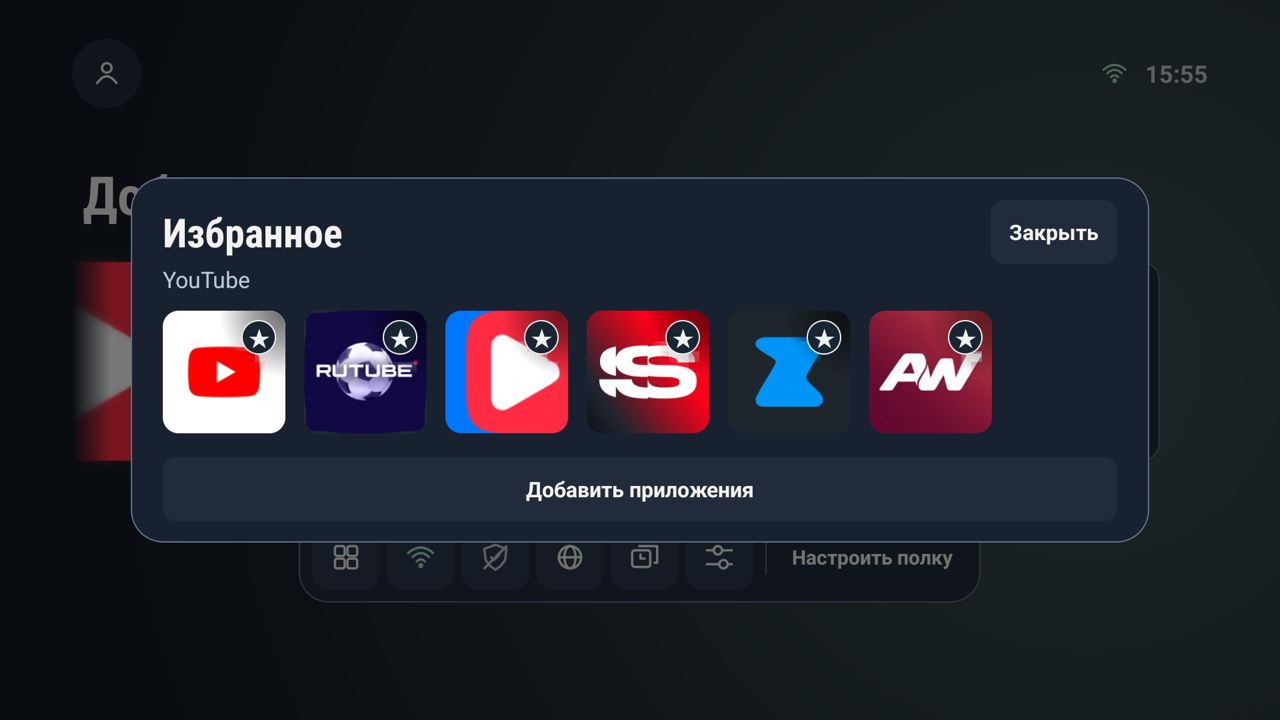
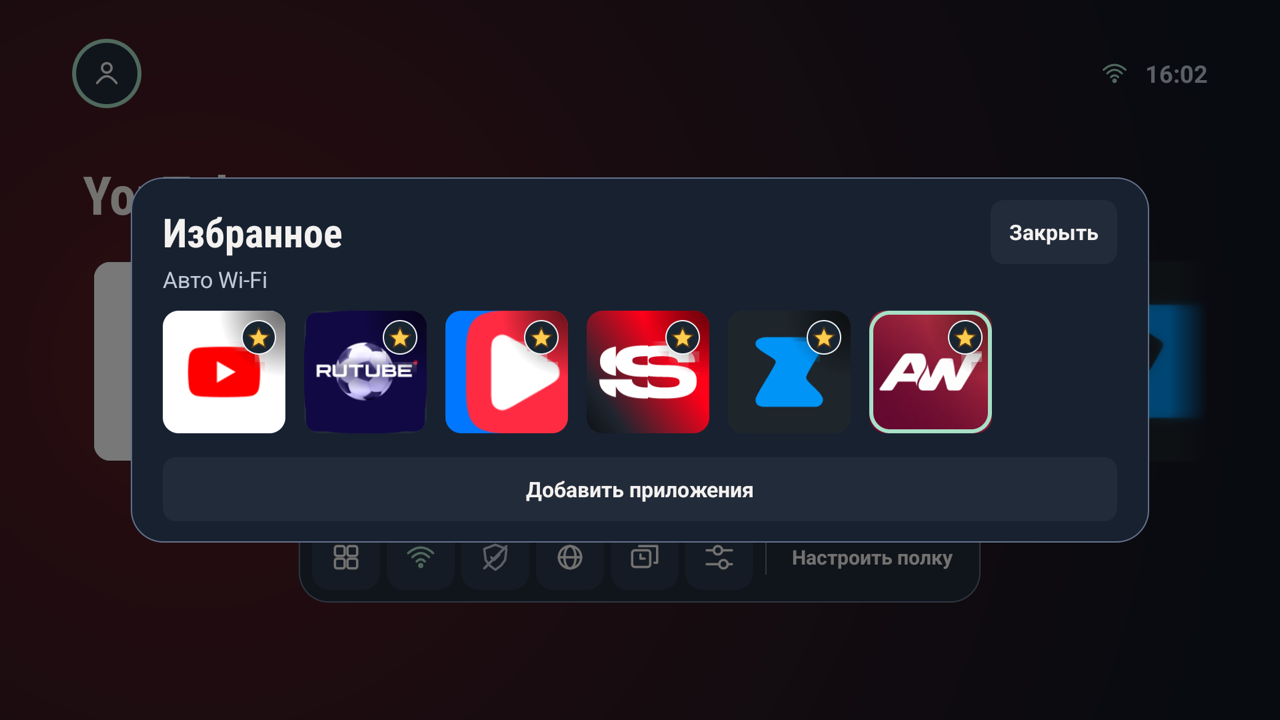
Center a yellow star in the favorites badge

diff --git a/src/main/java/ru/local/tvshelf/MainActivity.java b/src/main/java/ru/local/tvshelf/MainActivity.java
@@ -670,7 +670,10 @@ public final class MainActivity extends Activity {
             return;
         }
         showAppGrid(panel, entries, 48, true, (entry, item) -> {
-            addAppBadge(item, "★");
+            ImageView star = new ImageView(this);
+            star.setImageResource(R.drawable.ic_favorite_star);
+            star.setScaleType(ImageView.ScaleType.CENTER);
+            addAppBadge(item, star);
             item.setOnFocusChangeListener((view, focused) -> {
                 if (focused) panel.caption.setText(entry.name);
             });
@@ -713,7 +716,7 @@ public final class MainActivity extends Activity {
                 if (focused) panel.caption.setText(item.isSelected() ? entry.name + " · Выбрано" : caption);
             });
 
-            TextView check = addAppBadge(item, added ? "✓" : "");
+            TextView check = addAppCheck(item, added ? "✓" : "");
             item.setAccessibilityDelegate(new View.AccessibilityDelegate() {
                 @Override
                 public void onInitializeAccessibilityNodeInfo(View host, AccessibilityNodeInfo info) {
@@ -738,11 +741,16 @@ public final class MainActivity extends Activity {
         });
     }
 
-    private TextView addAppBadge(FrameLayout item, String mark) {
+    private TextView addAppCheck(FrameLayout item, String mark) {
         TextView badge = text(mark, 17, R.color.on_surface, true);
         badge.setTextColor(APP_CHECK_FOREGROUND);
         badge.setGravity(Gravity.CENTER);
         badge.setIncludeFontPadding(false);
+        addAppBadge(item, badge);
+        return badge;
+    }
+
+    private void addAppBadge(FrameLayout item, View badge) {
         badge.setImportantForAccessibility(View.IMPORTANT_FOR_ACCESSIBILITY_NO);
         badge.setBackground(shape(APP_CHECK_BACKGROUND, 13, APP_CHECK_FOREGROUND, 1));
         FrameLayout.LayoutParams params = new FrameLayout.LayoutParams(
@@ -750,7 +758,6 @@ public final class MainActivity extends Activity {
         params.topMargin = dp(7);
         params.setMarginEnd(dp(7));
         item.addView(badge, params);
-        return badge;
     }
 
     private void updateAddButton(TextView button, int count) {
